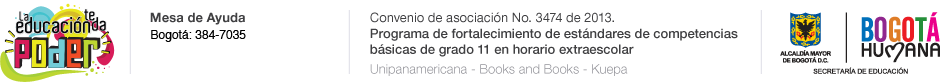
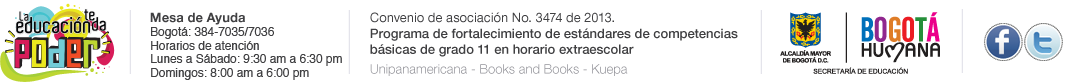
added fb & tw links to bogota

diff --git a/web/styles/css/bogota.css b/web/styles/css/bogota.css
@@ -30,4 +30,27 @@ footer {
 footer .container {
 		background: url("../../img/humana-ft.png") no-repeat scroll 0px 0px transparent;
 		height: 90px;
+		position: relative;
+}
+
+.bogota-social{
+  display: block !important;
+  left: 980px;
+  position: absolute;
+  top: 20px;
+}
+
+.bogota-social .fb{
+	position: absolute;
+	left: 0px;
+	height: 40px;
+	width: 40px;
+	top: -8px;
+}
+.bogota-social .tw{
+	position: absolute;
+	left: 40px;
+	height: 40px;
+	width: 40px;
+	top: -8px;
 }

diff --git a/web/styles/css/plataforma.css b/web/styles/css/plataforma.css
@@ -13,6 +13,10 @@
     John Doe Styles
 -------------------------------------------------- */
 
+.bogota-social{
+  display: none;
+}
+
 .dashboard-left .open > .dropdown-menu{
   max-height: 400px;
   overflow-y: auto;

diff --git a/apps/frontend/templates/layout_v2.php b/apps/frontend/templates/layout_v2.php
@@ -79,6 +79,10 @@
     <div class="container">
       <div class="ft-logo">kuepa</div>
       <p class="ft-copy">Copyright &copy; Kuepa 2014</p>
+      <div class="bogota-social">
+        <a href="https://www.facebook.com/Fortalecimientoestandaresdecompetencias" target="_blank" class="fb"></a>
+        <a href="https://twitter.com/@FCompetencias" target="_blank" class="tw"></a>
+      </div>
     </div>
   </footer>
 
